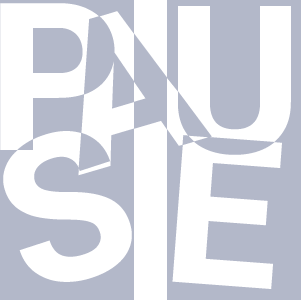
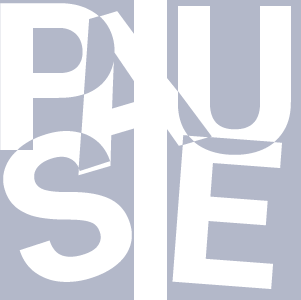
pls tilt

Changed region(s): [[0.4186, 0.12, 0.5681, 0.45]]

diff --git a/js/scripts.js b/js/scripts.js
@@ -23,3 +23,41 @@ $(document).ready(function() {
     });
 
 });
+
+window.addEventListener('deviceorientation', function(eventData) {
+
+  // The compass direction - will return a value between 0 and 360
+  eventData.alpha
+
+  // Side to side value - will return a value between -180 and 180
+  eventData.beta
+
+  // Front to back value - will return a value between -90 and 90
+  eventData.gamma
+});
+
+var background = document.getElementByID('#background');
+
+window.addEventListener('deviceorientation', function(eventData) {
+  // Retrieving the front/back tilting of the device and moves the
+  // background in the opposite way of the tilt
+
+  var yTilt = Math.round((-eventData.beta + 90) * (40/180) - 40);
+
+  // Retrieve the side to side tilting of the device and move the
+  // background the opposite direction.
+
+  var xTilt = Math.round(-eventData.gamma * (20/180) - 20);
+
+  // Thi 'if' statement checks if the phone is upside down and corrects
+  // the value that is returned.
+  if (xTilt &amp;gt; 0) {
+    xTilt = -xTilt;
+  } else if (xTilt &amp;lt; -40) {
+    xTilt = -(xTilt + 80);
+  }
+
+  var backgroundPositionValue = yTilt + 'px ' + xtilt + "px";
+
+  background.style.backgroundPosition = backgroundPositionValue;
+}, false);

diff --git a/css/style.css b/css/style.css
@@ -136,8 +136,8 @@
 			text-transform: uppercase;
 			font-weight: 400;
 			color:#eae8e5;
-			font-size: 1.4rem;
-			line-height: 0rem;
+			font-size: 1.3rem;
+			letter-spacing: .3rem;
 			
 			position: fixed;
 			top:50%;
@@ -146,7 +146,7 @@
 
 		.email{
 			width:12px;
-			left:5%;
+			left:7%;
 			-ms-transform: rotate(90deg);
     		-webkit-transform: rotate(90deg);
    			transform: rotate(90deg);
@@ -154,7 +154,7 @@
 
 		.phone{
 			width:12px;
-			left:15%;
+			left:18%;
 			-ms-transform: rotate(90deg);
     		-webkit-transform: rotate(90deg);
    			transform: rotate(90deg);
@@ -177,8 +177,9 @@
 			text-transform: uppercase;
 			font-weight: 400;
 			color:#eae8e5;
-			font-size: 1.5rem;
-			line-height: 1.3rem;
+			font-size: 1.3rem;
+			line-height: 1rem;
+			letter-spacing: .3rem;
 
 			/*
 			-webkit-text-shadow: 0px 0px 84px -17px rgba(234,232,229,0.77);
@@ -187,12 +188,22 @@
 			*/	
 		}
 
+		.mbg{
+			width:75%;
+			left:25%;
+			z-index: -1000;
+			position:absolute;
+			overflow:hidden;
+		}
+
+		.mbg img{
+			width:100%;
+		}
+
 		.music{
 			margin-left:40%;
 			margin-top:10%;
 			height:100%;
-
-
 		}
 
 		.song1{

diff --git a/index.html b/index.html
@@ -49,8 +49,11 @@
 				</p>
 			</div>
 
-			<div class="music">
+			<div class="mbg">
+				<img id="background" src = "img/pics/waves.png">
+			</div>
 
+			<div class="music">
 				<div class="song1">
 						
 						<div id="player">
@@ -71,10 +74,12 @@
 				</div>
 
 			</div>
-
+		
+		<!--
 			<div class="image1">
-				<img src = "img/pics/light.png">
+				<img src = "img/pics/waves.png">
 			</div>
+		-->
 
 		<div class="contact">
 			<div class="email contact">
